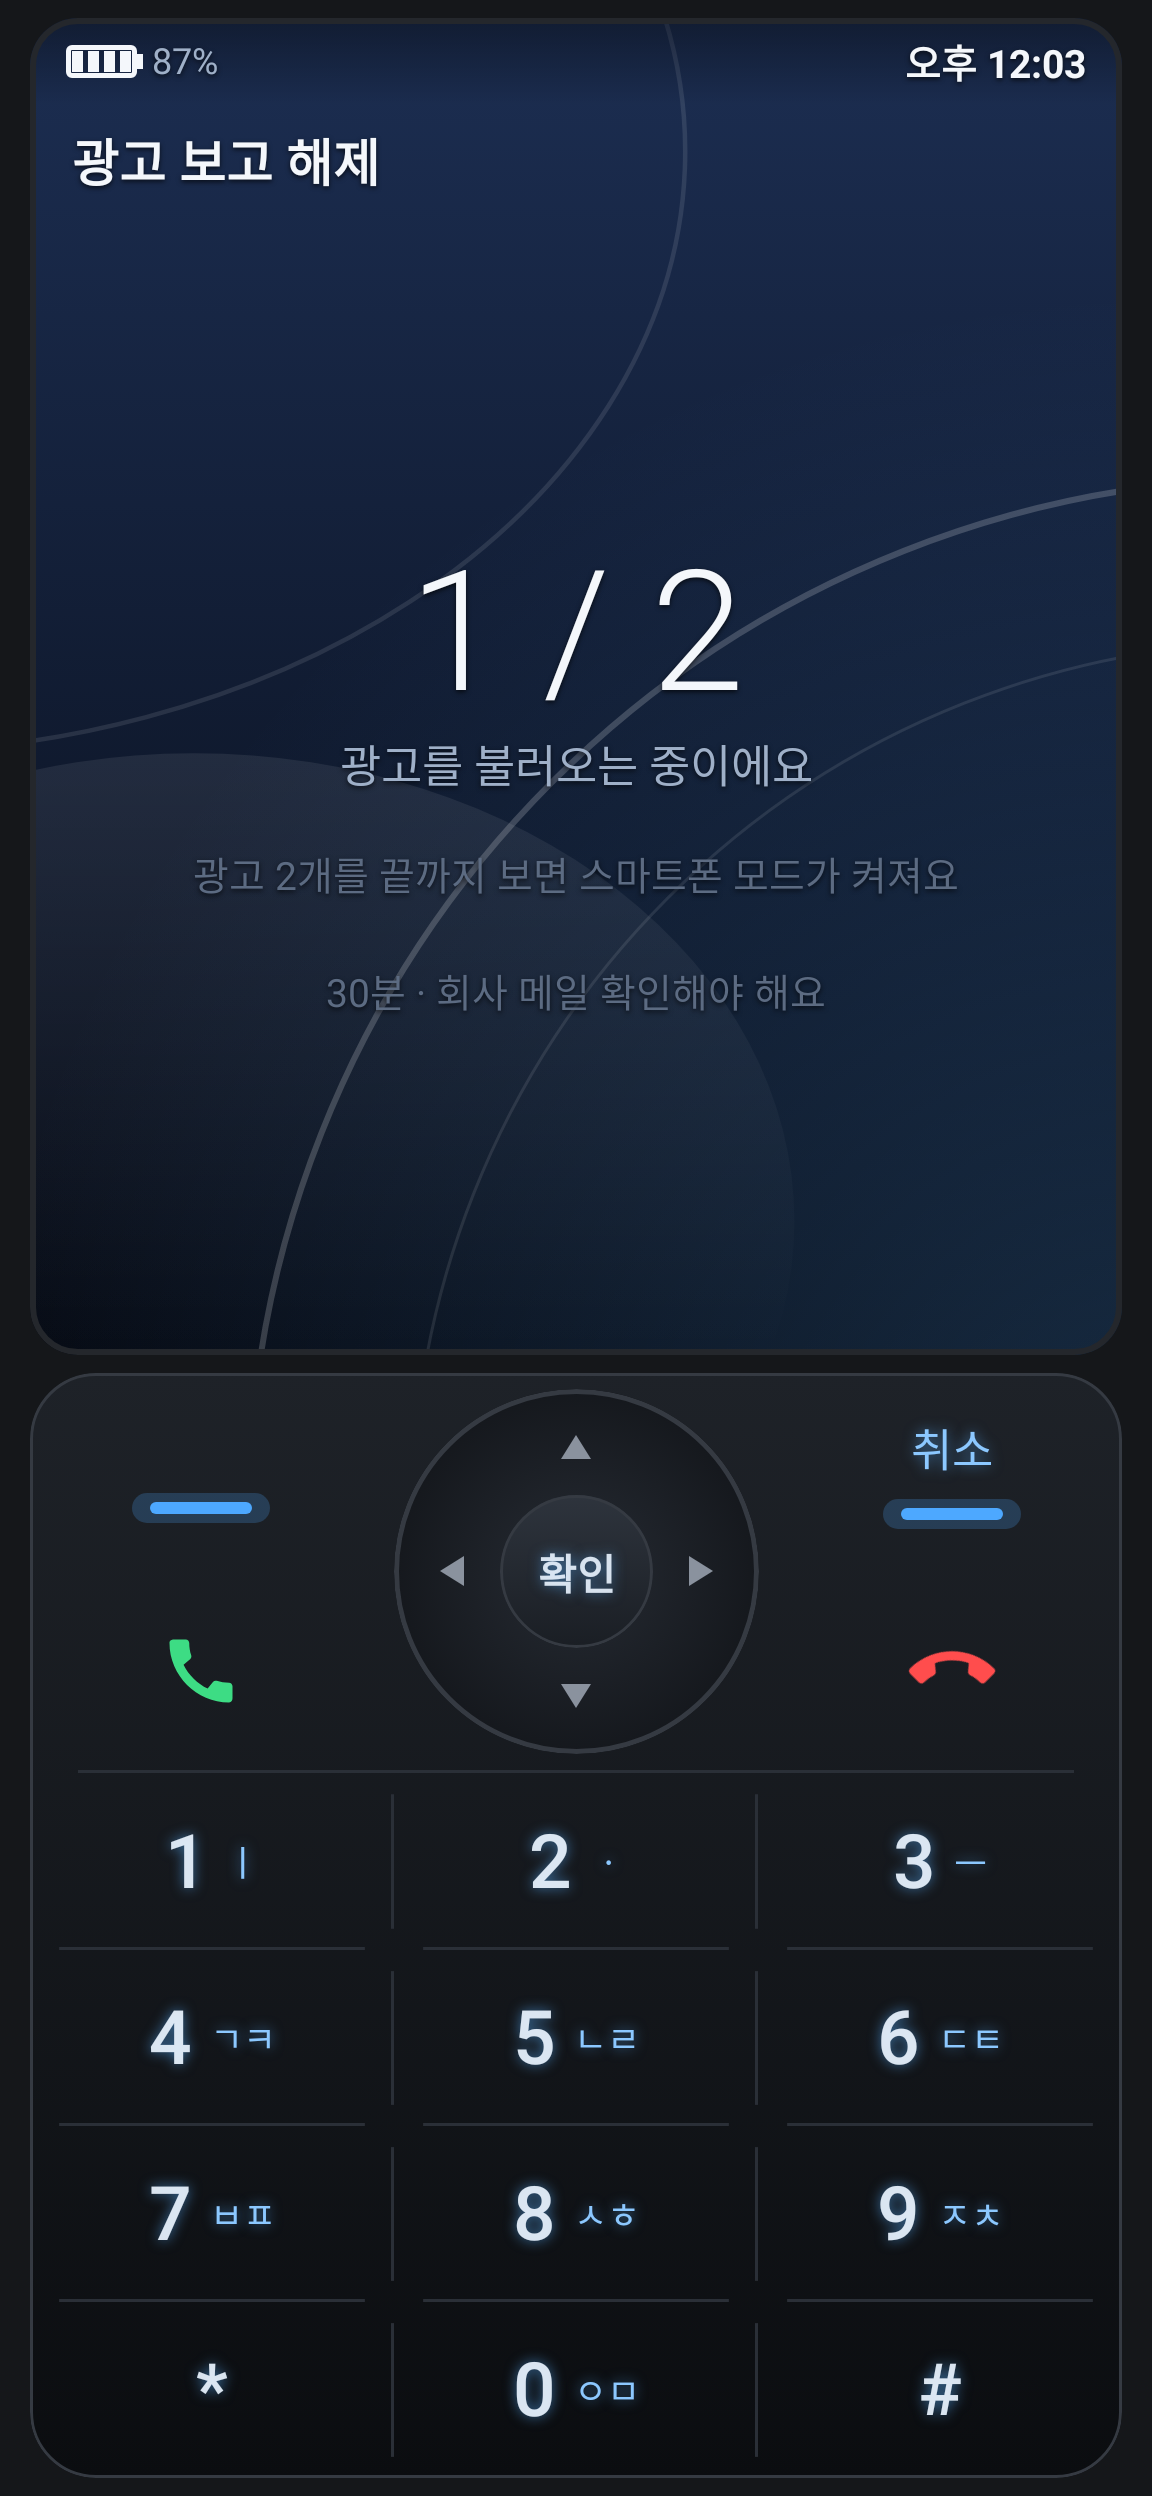
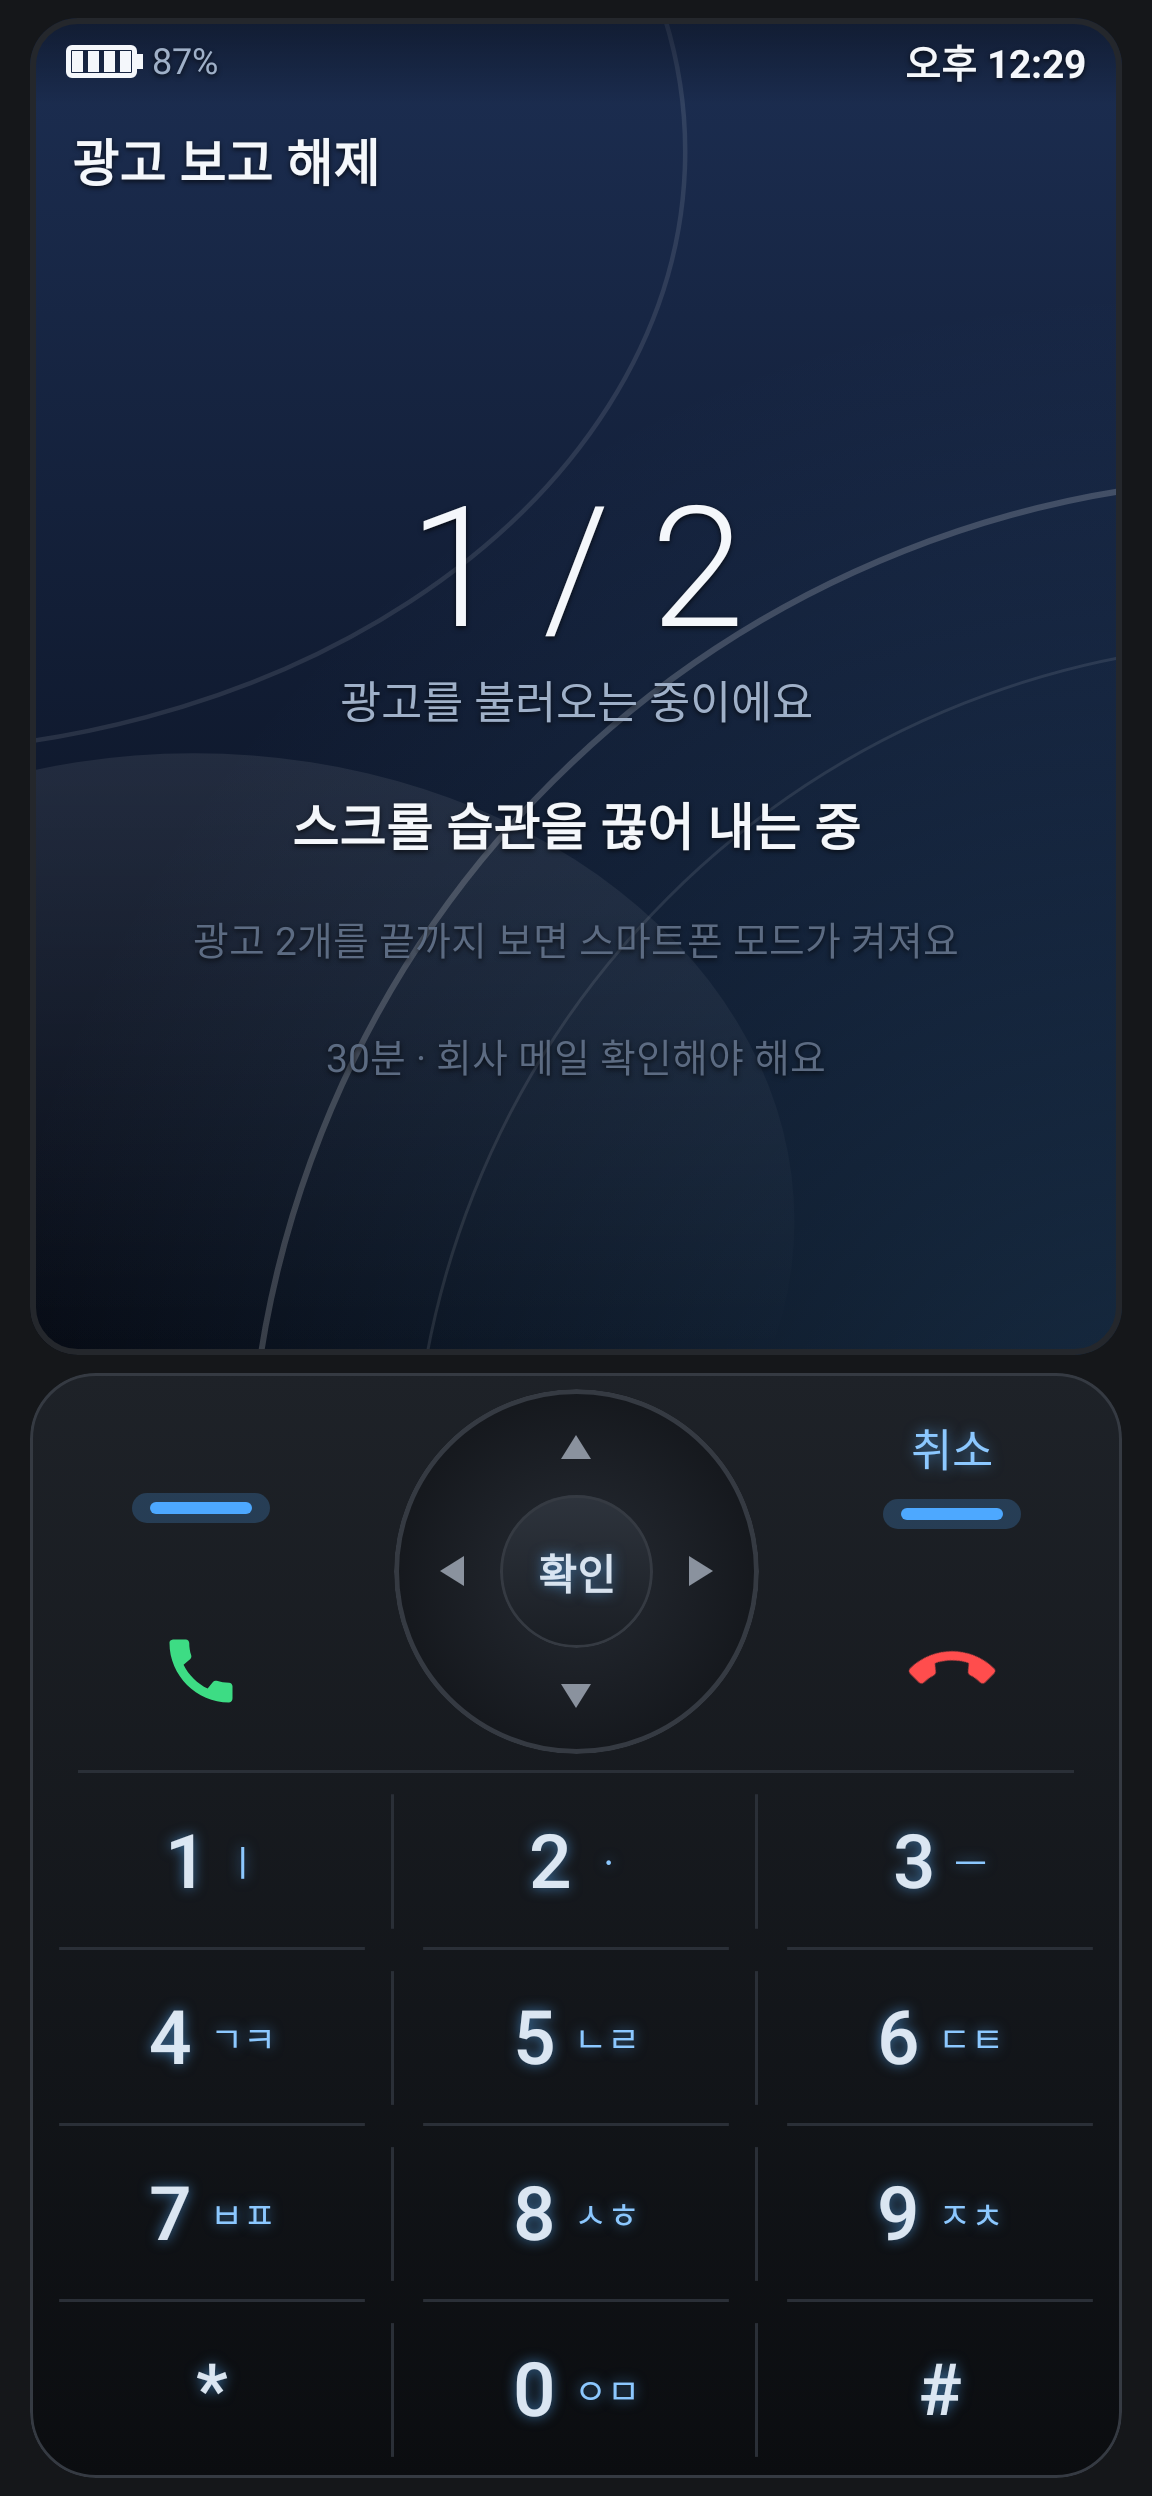
1분 대기·광고 불러오는 화면에 숨쉬기 원과 '~하는 중' 문구
- 숨쉬기 원: 4초 들이쉬고, 4초 내쉬고
- 10초마다 바뀌는 문구 (뇌 건강을 회복하는 중 등 직접 쓴 10개)
- 적어 둔 이유를 함께 보여 줌
- 광고가 나오는 동안에는 덮지 않음 (AdMob 정책)

Claude-Session: https://claude.ai/code/session_01NTGzdmekjWKd9sVyjh3UtQ

Changed region(s): [[0.1562, 0.1875, 0.8125, 0.4375], [0.9062, 0.0, 0.9375, 0.0312]]

diff --git a/app/src/main/java/com/aggro1025/jeopda/ui/folder/Mindful.kt b/app/src/main/java/com/aggro1025/jeopda/ui/folder/Mindful.kt
@@ -1,0 +1,73 @@
+package com.aggro1025.jeopda.ui.folder
+
+import androidx.compose.animation.core.LinearEasing
+import androidx.compose.animation.core.RepeatMode
+import androidx.compose.animation.core.animateFloat
+import androidx.compose.animation.core.infiniteRepeatable
+import androidx.compose.animation.core.rememberInfiniteTransition
+import androidx.compose.animation.core.tween
+import androidx.compose.foundation.Canvas
+import androidx.compose.foundation.layout.Box
+import androidx.compose.foundation.layout.size
+import androidx.compose.material3.Text
+import androidx.compose.runtime.Composable
+import androidx.compose.runtime.getValue
+import androidx.compose.ui.Alignment
+import androidx.compose.ui.Modifier
+import androidx.compose.ui.geometry.Offset
+import androidx.compose.ui.graphics.Brush
+import androidx.compose.ui.graphics.Color
+import androidx.compose.ui.graphics.drawscope.Stroke
+import androidx.compose.ui.platform.LocalInspectionMode
+import androidx.compose.ui.text.font.FontWeight
+import androidx.compose.ui.unit.Dp
+import androidx.compose.ui.unit.dp
+import androidx.compose.ui.unit.sp
+import com.aggro1025.jeopda.ui.Scr
+
+/** 기다리는 동안 보여 주는 문구 (모두 직접 쓴 문구) */
+val MINDFUL_LINES = listOf(
+    "뇌 건강을 회복하는 중",
+    "머리를 쉬게 하는 중",
+    "집중력을 되찾는 중",
+    "충동이 지나가길 기다리는 중",
+    "스크롤 습관을 끊어 내는 중",
+    "눈을 쉬게 하는 중",
+    "생각을 정리하는 중",
+    "지금 이 순간에 머무는 중",
+    "진짜 필요한 일만 고르는 중",
+    "나를 위한 1분을 쓰는 중",
+)
+
+/** 숨쉬기 원: 4초 동안 커지며 "들이쉬고", 4초 동안 작아지며 "내쉬고" */
+@Composable
+fun BreathingCircle(size: Dp = 170.dp) {
+    val inspection = LocalInspectionMode.current
+    val t = rememberInfiniteTransition(label = "breath")
+    val phase by t.animateFloat(
+        initialValue = 0f,
+        targetValue = 1f,
+        animationSpec = infiniteRepeatable(tween(8_000, easing = LinearEasing), RepeatMode.Restart),
+        label = "phase",
+    )
+    val p = if (inspection) 0.35f else phase
+    val inhale = p < 0.5f
+    // 0→0.5 커짐, 0.5→1 작아짐 (부드럽게)
+    val k = if (inhale) p / 0.5f else 1f - (p - 0.5f) / 0.5f
+    val eased = (1 - kotlin.math.cos(k * Math.PI).toFloat()) / 2f
+    val scale = 0.55f + 0.45f * eased
+
+    Box(Modifier.size(size), contentAlignment = Alignment.Center) {
+        Canvas(Modifier.size(size)) {
+            val r = this.size.minDimension / 2f
+            val c = Offset(this.size.width / 2f, this.size.height / 2f)
+            drawCircle(Color(0x1FFFFFFF), radius = r, center = c, style = Stroke(1.5.dp.toPx()))
+            drawCircle(
+                Brush.radialGradient(listOf(Scr.accent.copy(alpha = 0.55f), Scr.accentDeep.copy(alpha = 0.15f)), c, r * scale),
+                radius = r * scale,
+                center = c,
+            )
+        }
+        Text(if (inhale) "들이쉬고" else "내쉬고", style = scrText(17.sp, weight = FontWeight.Bold))
+    }
+}

diff --git a/app/src/main/java/com/aggro1025/jeopda/ui/folder/FolderApp.kt b/app/src/main/java/com/aggro1025/jeopda/ui/folder/FolderApp.kt
@@ -590,23 +590,30 @@ private fun UnlockWaitScreen(
     }
     BindKeys(router, onKey)
     FolderPhone(if (screen.adFailed) "광고를 불러오지 못했어요" else "잠시 기다려요", SoftLabels("", "", "취소"), onKey) {
+        val passed = UnlockRules.WAIT_SECONDS - left
         Column(
-            Modifier.fillMaxSize().padding(20.dp),
+            Modifier.fillMaxSize().padding(horizontal = 20.dp, vertical = 12.dp),
             horizontalAlignment = Alignment.CenterHorizontally,
             verticalArrangement = Arrangement.Center,
         ) {
-            Text("$left", style = scrText(88.sp, weight = FontWeight.Light))
-            Text("초 뒤에 스마트폰 모드가 켜져요", style = scrText(15.sp, Scr.dim))
-            Spacer(Modifier.height(20.dp))
+            BreathingCircle()
+            Spacer(Modifier.height(18.dp))
+            // 문구는 10초마다 바뀐다
             Text(
-                "${durationText(screen.minutes)} · ${screen.reason}",
-                style = scrText(13.sp, Scr.faint),
+                MINDFUL_LINES[(passed / 10 + screen.reason.length) % MINDFUL_LINES.size],
+                style = scrText(18.sp, weight = FontWeight.Bold),
+                textAlign = TextAlign.Center,
+            )
+            Spacer(Modifier.height(10.dp))
+            Text("${left}초 뒤에 스마트폰 모드가 켜져요", style = scrText(13.sp, Scr.dim))
+            Spacer(Modifier.height(14.dp))
+            Text(
+                "적어 둔 이유: ${screen.reason} · ${durationText(screen.minutes)}",
+                style = scrText(12.sp, Scr.faint),
                 maxLines = 2,
                 overflow = TextOverflow.Ellipsis,
                 textAlign = TextAlign.Center,
             )
-            Spacer(Modifier.height(20.dp))
-            Text("취소하면 폴더폰 모드로 남아요", style = scrText(12.sp, Scr.faint))
         }
     }
 }
@@ -658,6 +665,12 @@ private fun UnlockAdScreen(
             } else {
                 Text("$index / ${UnlockAds.COUNT}", style = scrText(56.sp, weight = FontWeight.Light))
                 Text("광고를 불러오는 중이에요", style = scrText(15.sp, Scr.dim))
+                Spacer(Modifier.height(18.dp))
+                Text(
+                    MINDFUL_LINES[(index + screen.attempt + screen.reason.length) % MINDFUL_LINES.size],
+                    style = scrText(17.sp, weight = FontWeight.Bold),
+                    textAlign = TextAlign.Center,
+                )
                 Spacer(Modifier.height(16.dp))
                 Text("광고 ${UnlockAds.COUNT}개를 끝까지 보면 스마트폰 모드가 켜져요", style = scrText(13.sp, Scr.faint))
             }

diff --git a/docs/decisions.md b/docs/decisions.md
@@ -74,3 +74,4 @@
 | Kotlin | 광고 SDK 요구로 2.2.21 |
 | 다른 앱 막기 (v0.4.0) | 사용 기록 접근 + 다른 앱 위에 표시 (필수 단계). 알림 서비스 안에서 1초마다 맨 앞 앱 확인(화면 꺼지면 쉼), 허용 목록(접다, 메뉴 1~9, 알림 허용 앱, 키보드, 시스템 화면) 밖이면 폴더폰 화면 + "쓸 수 없는 앱" 안내. 원래 홈 앱/최근 앱 화면은 안내 없이 조용히 돌려보냄. 스마트폰 모드에서는 동작 안 함 |
 | AdMob 앱 ID | 출시용: ca-app-pub-5192264798199858~4163105584 (접다 - 폴더폰 모드). 디버그는 항상 구글 테스트 ID. 출시용 보상형 광고 단위: ca-app-pub-5192264798199858/8186111076 (해제 보상형) |
+| 기다리는 동안 문구 | 1분 대기 화면: 숨쉬기 원(4초 들이쉬고·4초 내쉬고) + 10초마다 바뀌는 "~하는 중" 문구 + 적어 둔 이유. 광고 불러오는 화면에도 문구 하나. 광고가 나오는 동안에는 덮지 않음(AdMob 정책). 문구는 모두 직접 작성 |
